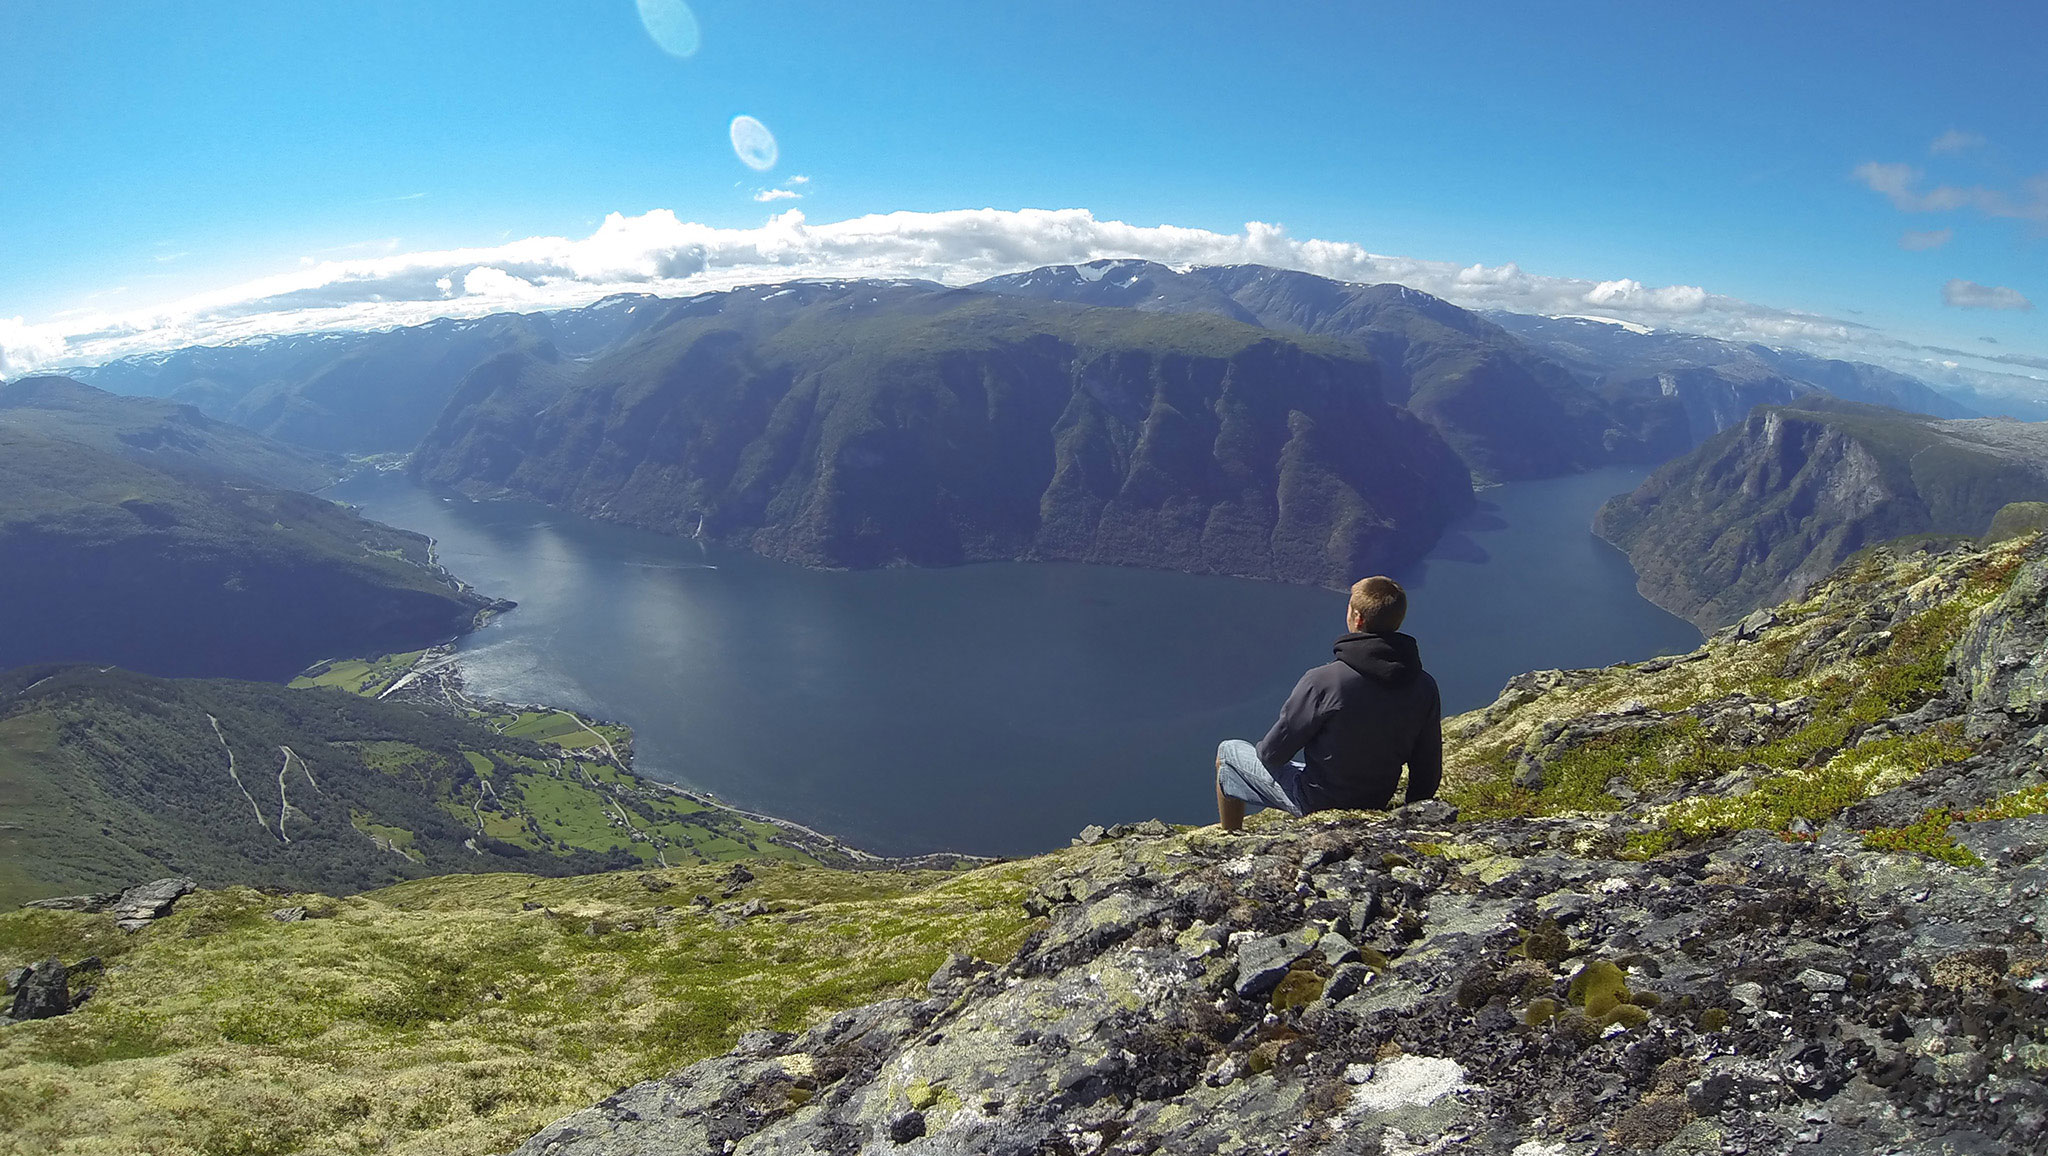
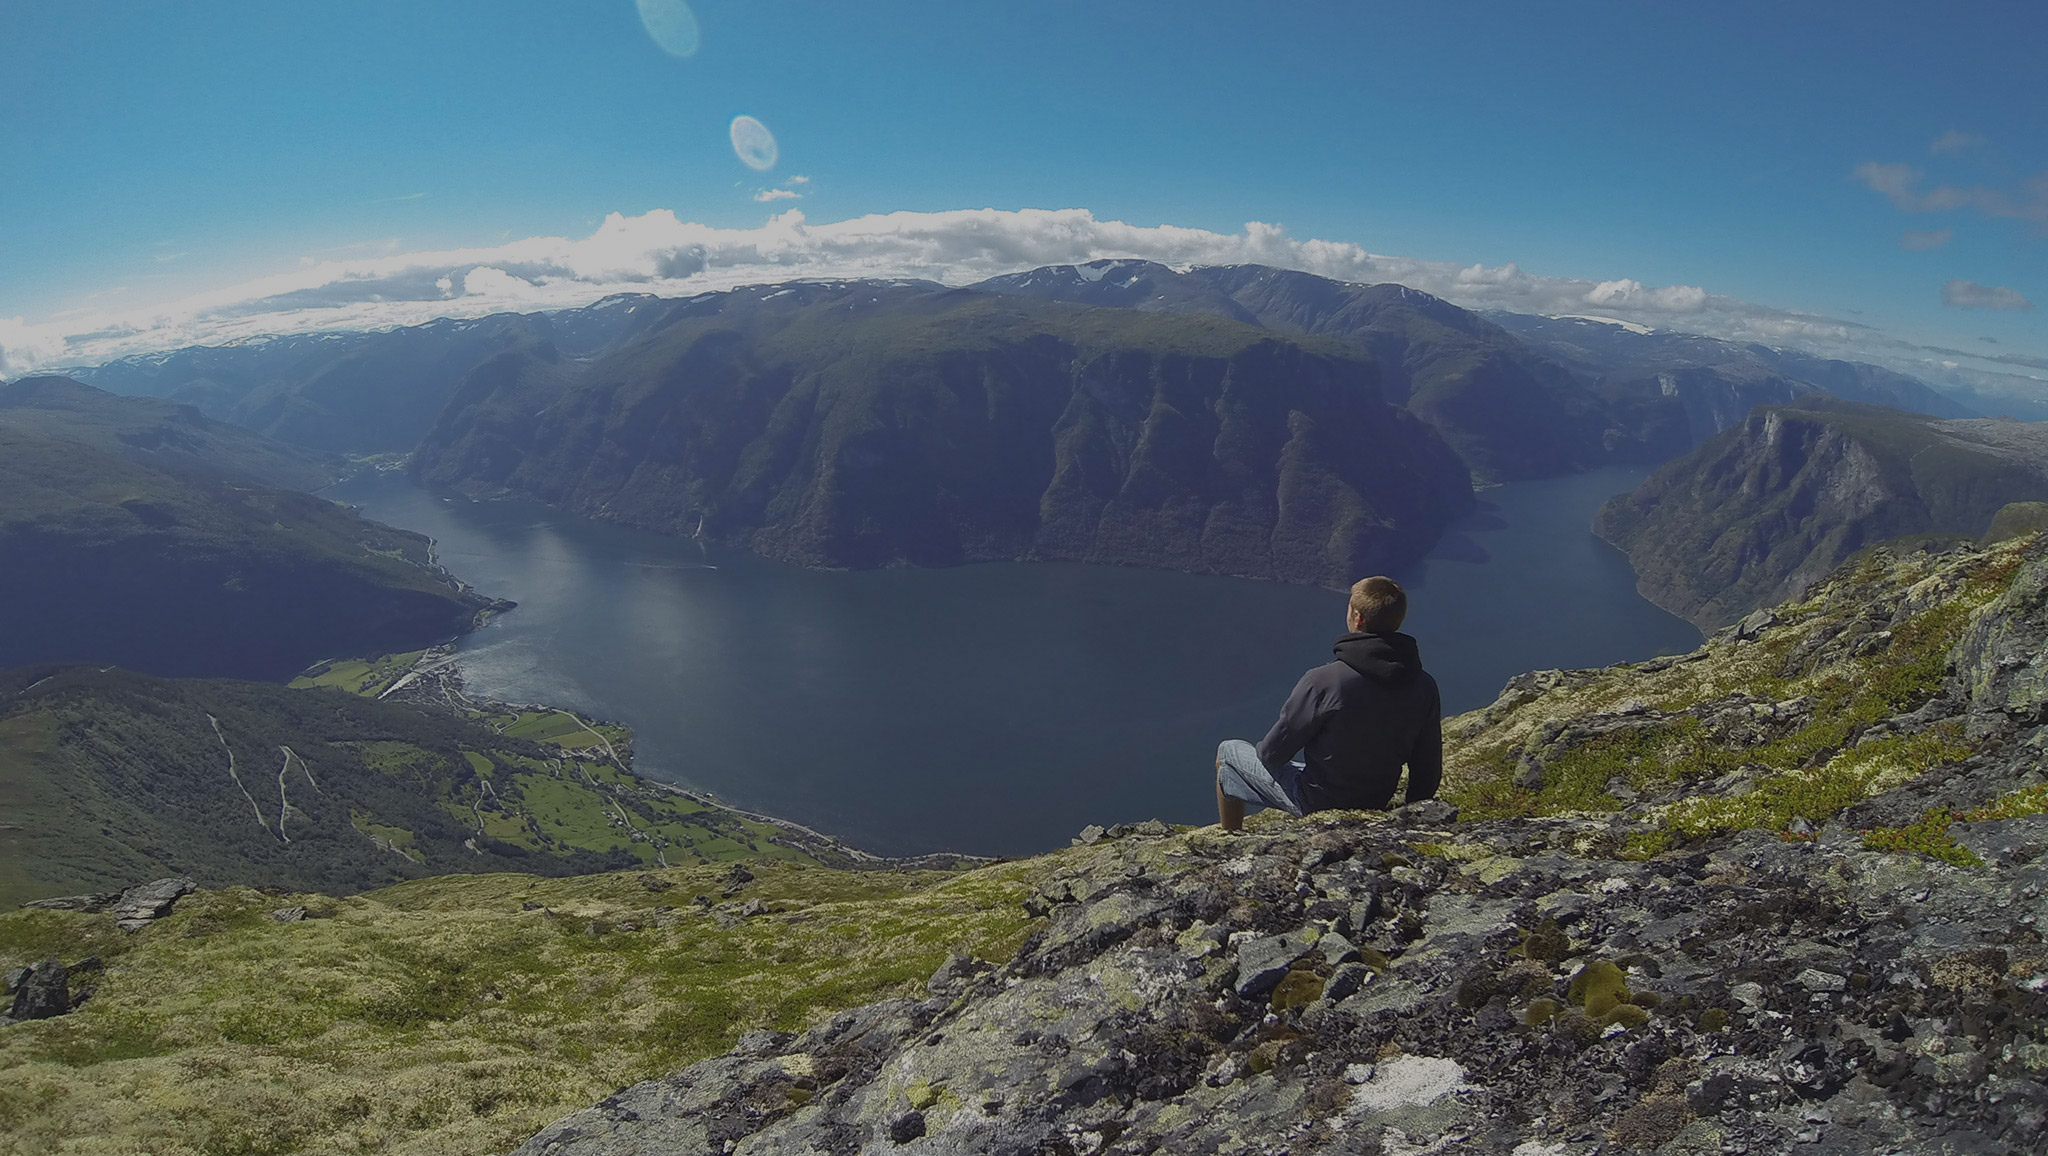
added photos

diff --git a/reustle/templates/splash.html b/reustle/templates/splash.html
@@ -95,6 +95,60 @@
 						</ul>
 					</div>
 				</div>
+				
+				<div class='col-md-12 photos-block'>
+					
+					<div class='photo-box'>
+						<div class='photo-title animated'>Machu Picchu, Peru</div>
+						<img src='./static/images/photos/photo3.jpg' class='img-responsive'/>
+					</div>
+					<div class='photo-box'>
+						<div class='photo-title animated'>Aguas Calientes, Peru</div>
+						<img src='./static/images/photos/photo4.jpg' class='img-responsive'/>
+					</div>
+					<div class='photo-box'>
+						<div class='photo-title animated'>New York City, USA</div>
+						<img src='./static/images/photos/photo6.jpg' class='img-responsive'/>
+					</div>
+					<div class='photo-box'>
+						<div class='photo-title animated'>Adirondacks, USA</div>
+						<img src='./static/images/photos/photo5.jpg' class='img-responsive'/>
+					</div>
+					<div class='photo-box'>
+						<div class='photo-title animated'>Fl&aring;am, Norway</div>
+						<img src='./static/images/photos/photo12.jpg' class='img-responsive'/>
+					</div>
+					<div class='photo-box'>
+						<div class='photo-title animated'>Fl&aring;m, Norway</div>
+						<img src='./static/images/photos/photo2.jpg' class='img-responsive'/>
+					</div>
+					<div class='photo-box'>
+						<div class='photo-title animated'>&aring;rhus, Denmark</div>
+						<img src='./static/images/photos/photo9.jpg' class='img-responsive'/>
+					</div>
+					<div class='photo-box'>
+						<div class='photo-title animated'>Copenhagen, Denmark</div>
+						<img src='./static/images/photos/photo11.jpg' class='img-responsive'/>
+					</div>
+					<div class='photo-box'>
+						<div class='photo-title animated'>Pennsylvania, USA</div>
+						<img src='./static/images/photos/photo8.jpg' class='img-responsive'/>
+					</div>
+					<div class='photo-box'>
+						<div class='photo-title animated'>Arkansas, USA</div>
+						<img src='./static/images/photos/photo10.jpg' class='img-responsive'/>
+					</div>
+					<div class='photo-box'>
+						<div class='photo-title animated'>Saint Martin, Caribbean</div>
+						<img src='./static/images/photos/photo7.jpg' class='img-responsive'/>
+					</div>
+					<div class='photo-box'>
+						<div class='photo-title animated'>Dry Tortugas, USA</div>
+						<img src='./static/images/photos/photo1.jpg' class='img-responsive'/>
+					</div>
+					
+				</div>
+				
 			</div>
 			
 			<br/>&nbsp;
@@ -112,6 +166,15 @@
 			
 			ga('create', 'UA-2580539-25', 'reustle.io');
 			ga('send', 'pageview');
+			
+			$('.photo-box').mouseover(function(){
+				$(this).find('.photo-title').removeClass('fadeOut').addClass('fadeIn').show();
+			});
+			
+			$('.photo-box').mouseout(function(){
+				$(this).find('.photo-title').removeClass('fadeIn').addClass('fadeOut');
+			});
+			
 		</script>
 	</body>
 </html>

diff --git a/reustle/static/css/styles.css b/reustle/static/css/styles.css
@@ -233,3 +233,57 @@ p {
 .panel-about .about-content ul li a {
   padding-bottom: 4px;
 }
+/* line 221, ../sass/styles.scss */
+.panel-about .about-content .photos-block {
+  text-align: center;
+  line-height: 0px;
+}
+/* line 226, ../sass/styles.scss */
+.panel-about .about-content .photos-block .photo-box {
+  display: inline-block;
+  margin: 6px 4px;
+}
+/* line 230, ../sass/styles.scss */
+.panel-about .about-content .photos-block .photo-box .photo-title {
+  position: absolute;
+  text-align: right;
+  margin-top: 154px;
+  padding-right: 5px;
+  text-transform: uppercase;
+  font-size: 12px;
+  font-weight: bold;
+  z-index: 100;
+  width: 300px;
+  height: 30px;
+  display: none;
+  text-shadow: 0px 0px 4px black, 0px 0px 4px black;
+  -webkit-animation-duration: 0.4s;
+  -moz-animation-duration: 0.4s;
+  -ms-animation-duration: 0.4s;
+  -o-animation-duration: 0.4s;
+  animation-duration: 0.4s;
+}
+/* line 255, ../sass/styles.scss */
+.panel-about .about-content .photos-block .photo-box img {
+  -webkit-transition: all .4s;
+  -moz-transition: all .4s;
+  -ms-transition: all .4s;
+  -o-transition: all .4s;
+  transition: all .4s;
+}
+/* line 262, ../sass/styles.scss */
+.panel-about .about-content .photos-block .photo-box img:not(:hover) {
+  -webkit-filter: grayscale(50%);
+  -moz-filter: grayscale(50%);
+  -ms-filter: grayscale(50%);
+  -o-filter: grayscale(50%);
+  filter: grayscale(50%);
+}
+/* line 271, ../sass/styles.scss */
+.panel-about .about-content .photos-block .photo-box img:hover {
+  -webkit-filter: grayscale(0%);
+  -moz-filter: grayscale(0%);
+  -ms-filter: grayscale(0%);
+  -o-filter: grayscale(0%);
+  filter: grayscale(0%);
+}

diff --git a/reustle/static/sass/styles.scss b/reustle/static/sass/styles.scss
@@ -217,6 +217,66 @@ p {
 				}
 			}
 		}
+		
+		.photos-block {
+			
+			text-align: center;
+			line-height: 0px;
+			
+			.photo-box {
+				display: inline-block;
+				margin: 6px 4px;
+				
+				.photo-title {
+					position: absolute;
+					text-align: right;
+					margin-top: 154px;
+					padding-right: 5px;
+					text-transform: uppercase;
+					font-size: 12px;
+					font-weight: bold;
+					z-index: 100;
+					width: 300px;
+					height: 30px;
+					display: none;
+					text-shadow: 0px 0px 4px rgba(0, 0, 0, 1),
+						0px 0px 4px rgba(0, 0, 0, 1);
+						
+					
+					$animation-speed: .4s;
+					-webkit-animation-duration: $animation-speed;
+					-moz-animation-duration: $animation-speed;
+					-ms-animation-duration: $animation-speed;
+					-o-animation-duration: $animation-speed;
+					animation-duration: $animation-speed;
+				
+				}
+				
+				img {
+					-webkit-transition: all .4s;
+					-moz-transition: all .4s;
+					-ms-transition: all .4s;
+					-o-transition: all .4s;
+					transition: all .4s;
+				}
+				img:not(:hover) {
+					$grayscale-level: 50%;
+					
+					-webkit-filter: grayscale($grayscale-level);
+					-moz-filter: grayscale($grayscale-level);
+					-ms-filter: grayscale($grayscale-level);
+					-o-filter: grayscale($grayscale-level);
+					filter: grayscale($grayscale-level);
+				}
+				img:hover {
+					-webkit-filter: grayscale(0%);
+					-moz-filter: grayscale(0%);
+					-ms-filter: grayscale(0%);
+					-o-filter: grayscale(0%);
+					filter: grayscale(0%);
+				}
+			}
+		}
 	}
 }
 
